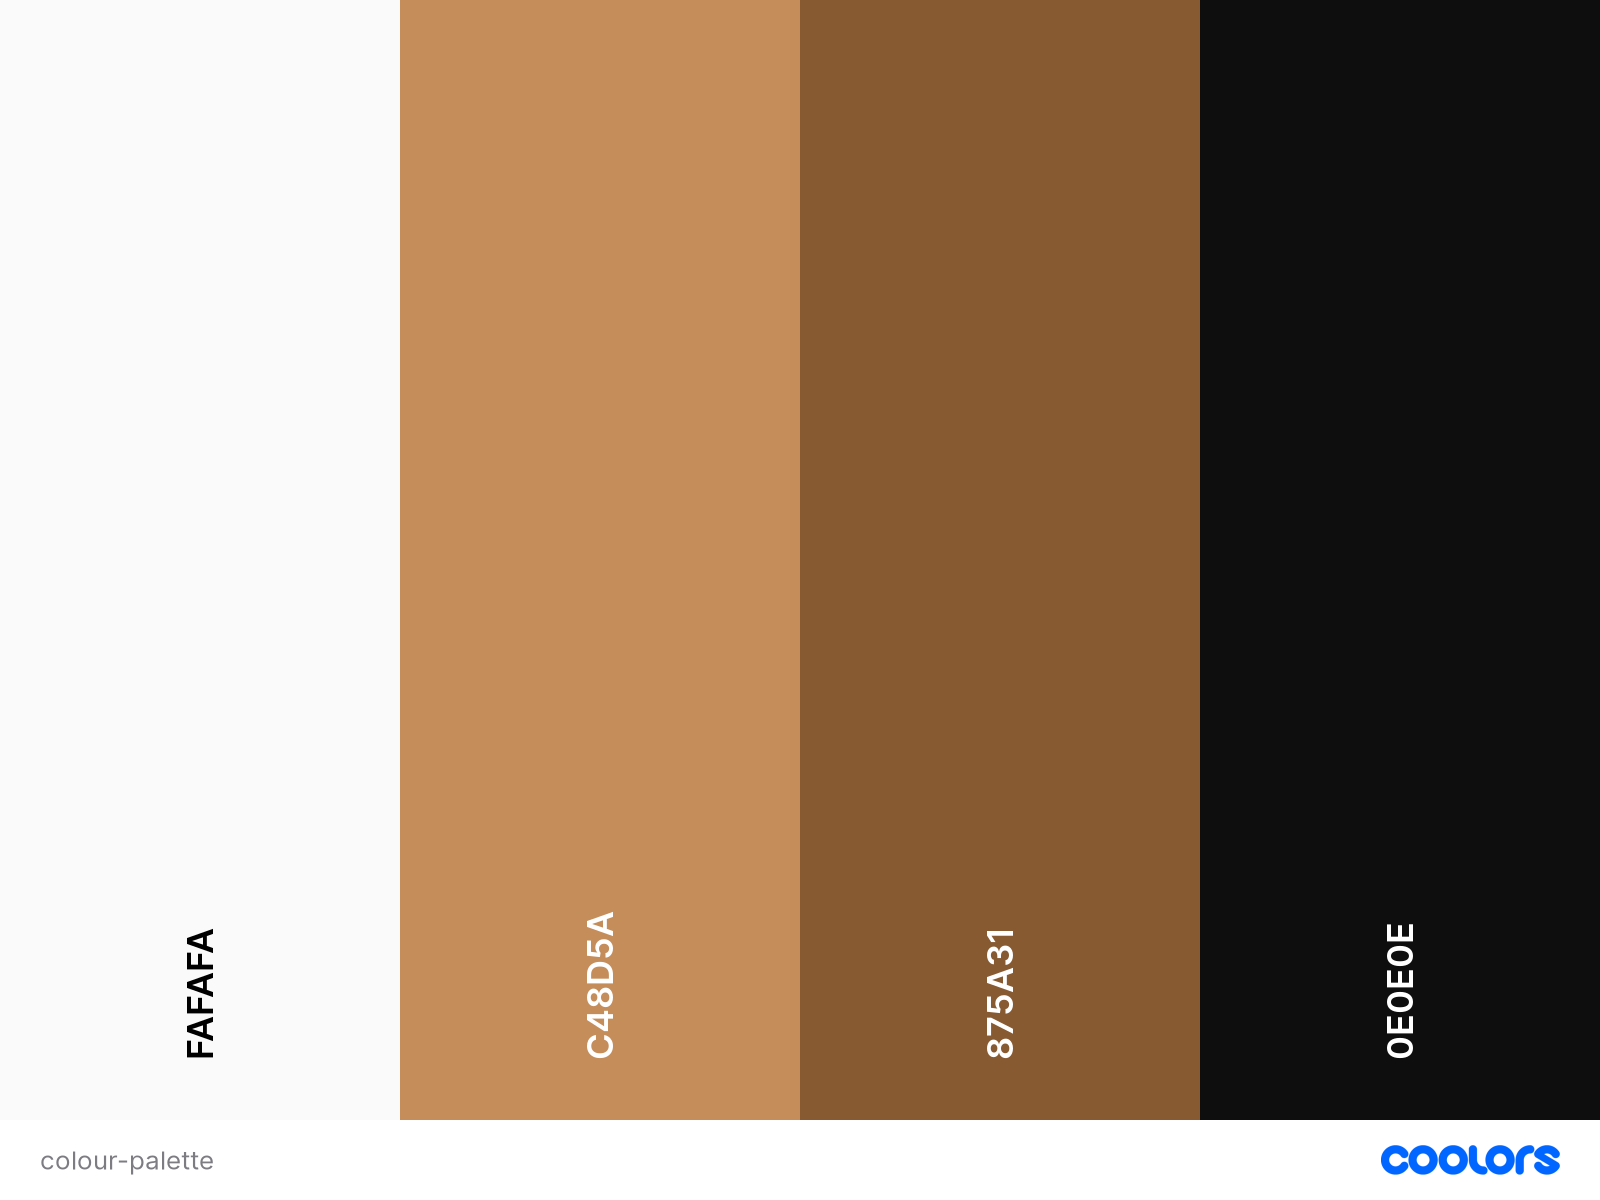
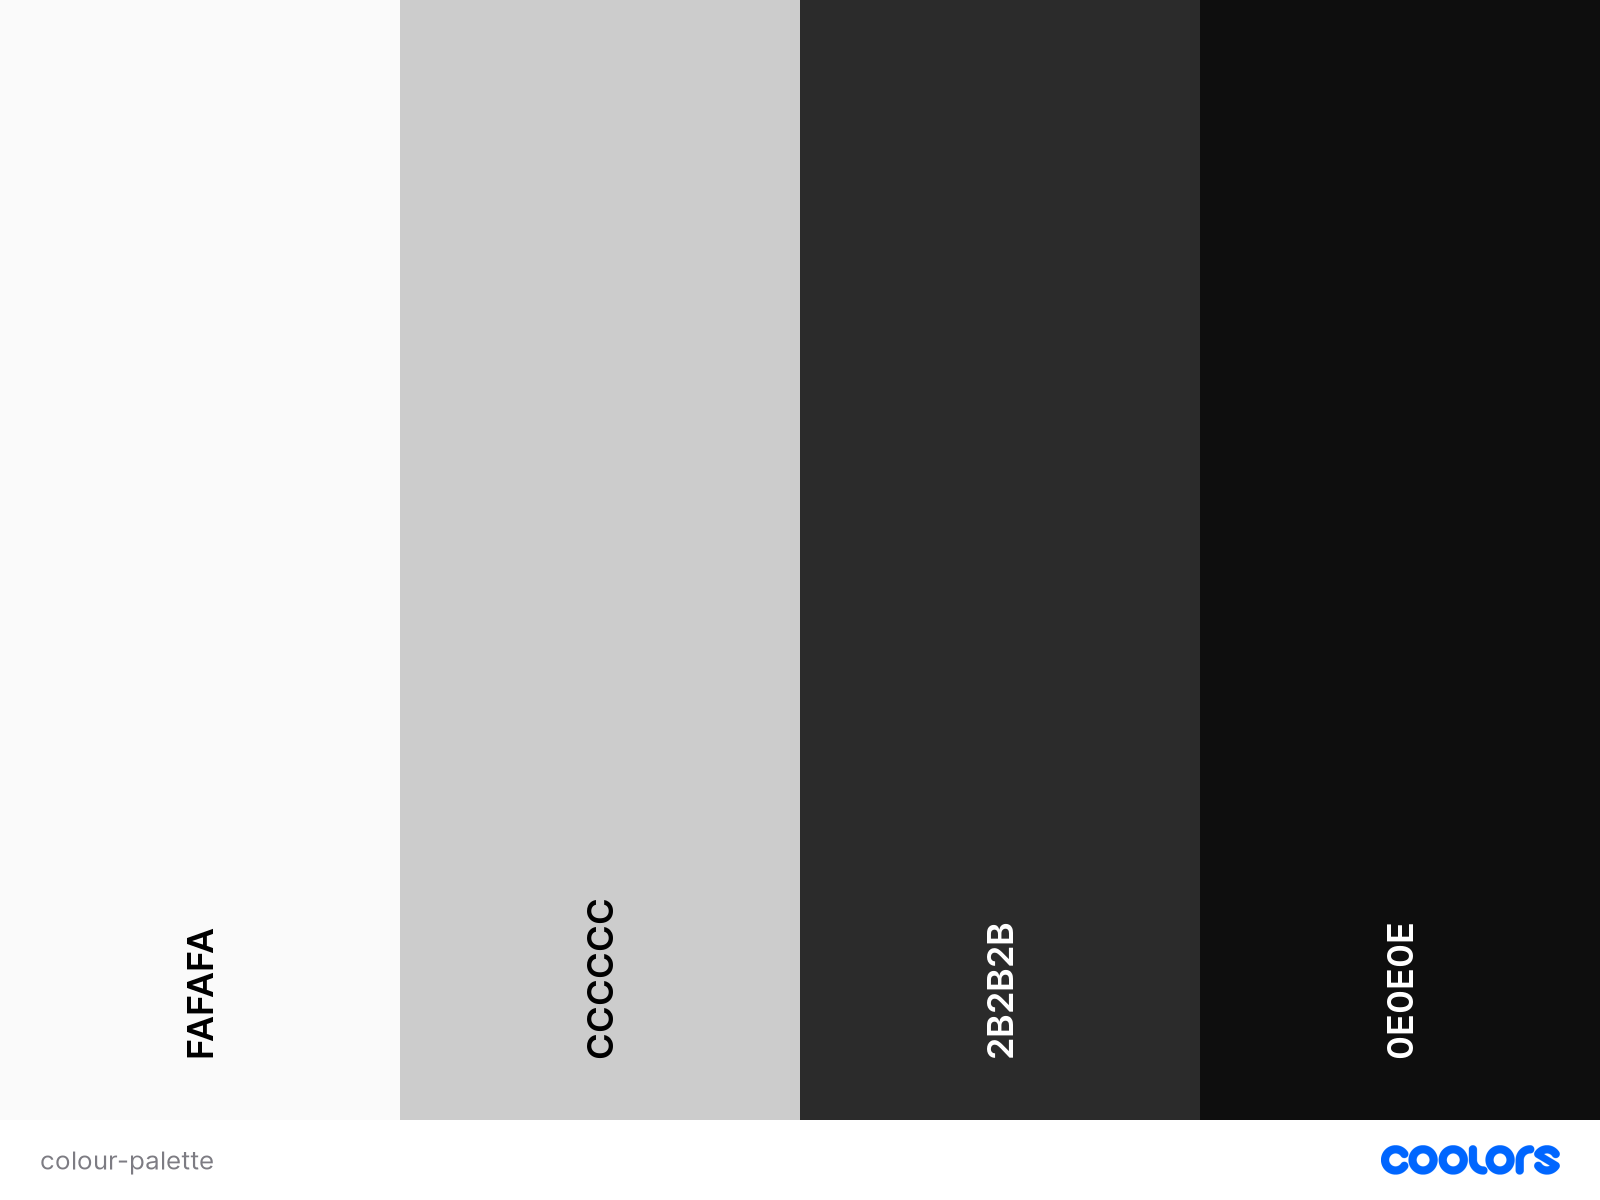
Update colour palette in README.md

diff --git a/README.md b/README.md
@@ -73,10 +73,10 @@ In order to organise my thoughts and provide a basic design scheme to work with,
 
 ## Colour Palette
 
-I took inspiration from the colours of a classic wooden chess set and generated a colour palette that will be used throughout the site for consistency. It is intended to be elegant, understated and modern. I decided to use the off-white #fafafa and off-black #0e0e0e to make the site's appearance less harsh.  
-I then ran these colours through [Contrast Grid](https://contrast-grid.eightshapes.com/?version=1.1.0&background-colors=&foreground-colors=%23fafafa%0D%0A%23c48d5a%0D%0A%23875a31%0D%0A%23000000&es-color-form__tile-size=compact&es-color-form__show-contrast=aaa&es-color-form__show-contrast=aa&es-color-form__show-contrast=aa18&es-color-form__show-contrast=dnp) to ensure that the site has sufficient contrast for accessibility.
+For the colour palette of my site, I decided to stick with white, black, and greys for a modern, minimalist feel, while relying on hero images to provide a pop of colour. To lessen the harshness of the palette, I used the off-white #FAFAFA and the off-black #0E0E0E.  
+I then ran these colours through [Contrast Grid](https://contrast-grid.eightshapes.com/?version=1.1.0&background-colors=&foreground-colors=%23FAFAFA%0D%0A%23CCCCCC%0D%0A%232B2B2B%0D%0A%230E0E0E&es-color-form__tile-size=compact&es-color-form__show-contrast=aaa&es-color-form__show-contrast=aa&es-color-form__show-contrast=aa18&es-color-form__show-contrast=dnp) to ensure that the site has sufficient contrast for accessibility.
 
-![A colour palette consisting of white, black, and medium browns](docs/images/colour-palette.png)
+![A colour palette consisting of white, black, and greys](docs/images/colour-palette.png)
 ![A grid showing the contrast between the above colours](docs/images/colour-contrast.png)
 
 ## Fonts
